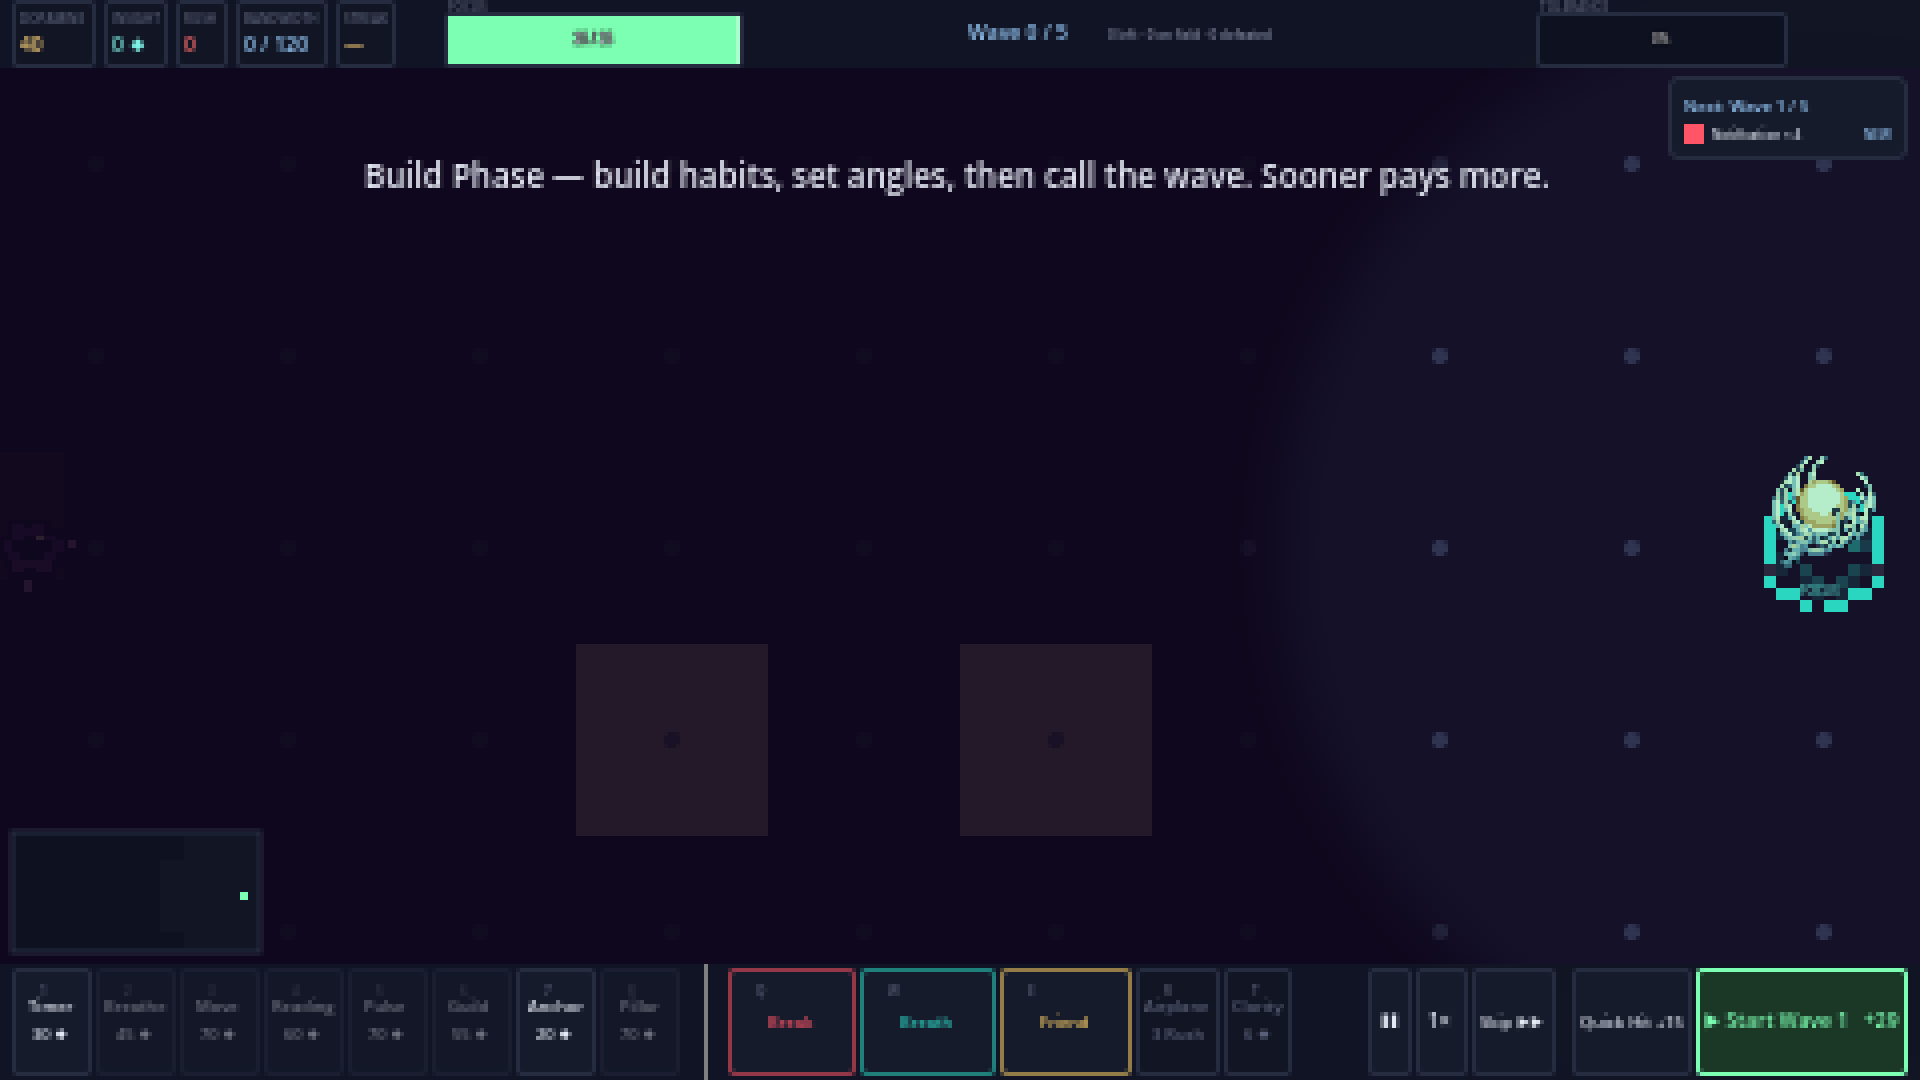
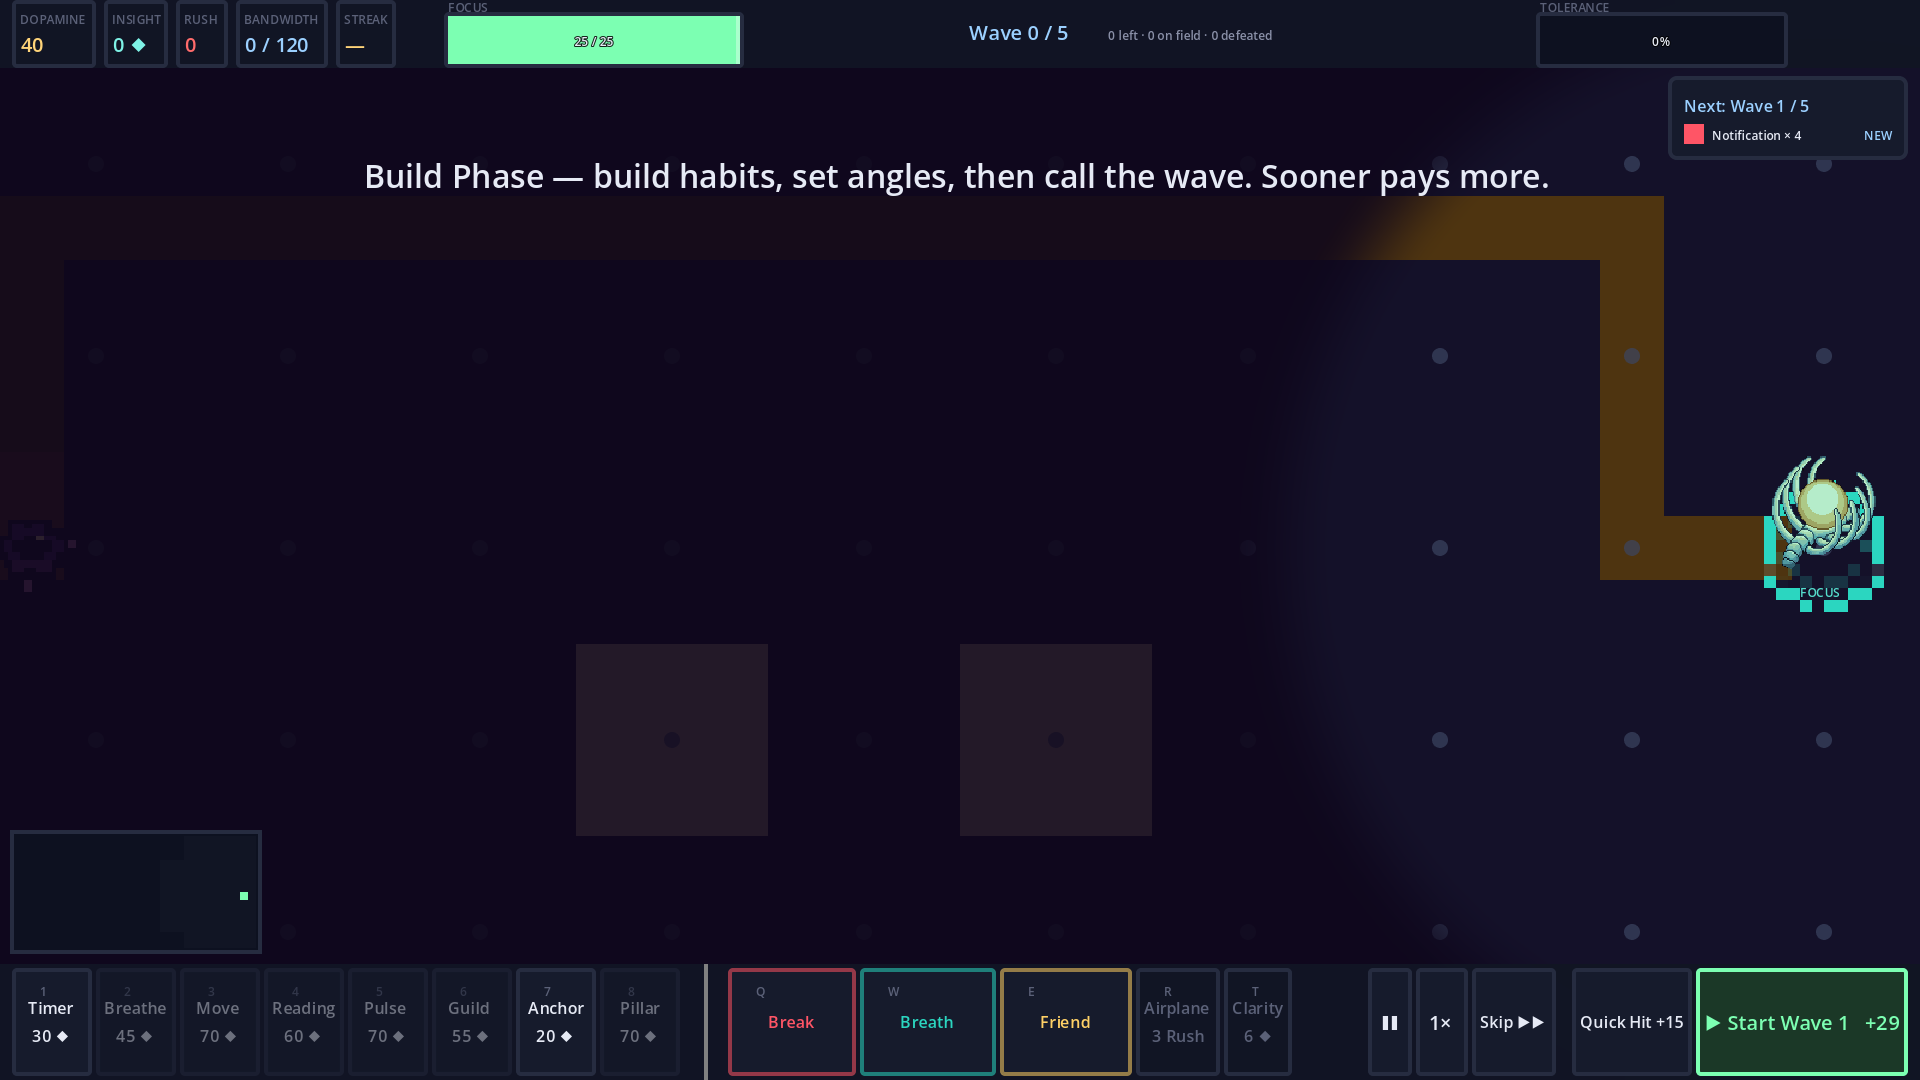
feat(board): draw the lane as a surface -- MODE_SQUARE was drawing no route at all
Reported as "the path is a dotted debug line, not terrain". It is worse than
that: there was no path rendering in the top-down game whatsoever, and the code
already said so in two places.

_build_path_layer() IS the lane renderer -- a TileMapLayer of 18 Wang-masked
lane tiles in assets/terrain/iso/lane/ -- and its first executable line is
`if GridProjection.active_mode == MODE_SQUARE: return`, commented "there is no
square equivalent to paint yet". SquareTerrain._draw(), which replaces it, was
two draw_rect calls: one ground rect, one tan rect per high-ground cell. It never
read lane_cells or path_cells. tools/stylized_renderer.gd says it outright:
"Cesta se nekreslí jinou barvou, protože to nedělá ani hra."

So level.path_cells was invisible gameplay data -- it fed A* weights and nothing
the player could see, in a genre where the route is the most important thing on
the board.

SquareTerrain now paints lane_cells as a filled surface, under the high ground so
a wall always wins a disputed cell. lane_cells rather than level.path_cells,
because a trod opening grows the route mid-run; _open_trod() repaints the terrain
for the same reason (MODE_ISO gets that free from _build_path_layer(), which
square mode returns from).

The colour is not invented: SQUARE_LANE_COLOR is Color8(78, 52, 16), the exact
LANE value tools/flat_terrain.py:55 paints the shipped terrain art with, whose
luminance sits in the band STYLE_BIBLE.md section 4 requires and
[…]

diff --git a/PROGRESS.md b/PROGRESS.md
@@ -5382,3 +5382,77 @@ obrázku" jsou dvě různá čísla, kdykoli se obrázek netvaruje podle plátna
 - `_shot_topdown_mockup` a `_shot_squashed_tiles` spuštěny a zkontrolovány na výstupní
   rozměry (`120x56`, resp. `120x49` pro squashed variantu — jiná výška, protože ten
   render je schválně sražený).
+
+## 2026-09-05 — Vrstvy 1b a 2a: věž se vznášela nad podložkou, cesta se nekreslila vůbec
+
+Uživatel rozdělil vizuální vady desky na vrstvy a zadal pořadí. Tohle je 1b (měřítko
+spritů vůči blokům) a 2a (cesta jako plocha, ne tečky). 1a a 2b níž jako zjištění.
+
+### 1b — a NENÍ to měřítko
+
+Změřeno frame diffem, ne přepočtem vzorce:
+
+| | naměřeno |
+|---|---|
+| podložka (`BUILD_BLOCK=3`) | 3,00 dlaždice |
+| hlava — box spritu | 4,00 |
+| hlava — **viditelný ink** | **2,50 × 3,25** |
+| přesah inku přes podložku na šířku | **−0,25** |
+| věž celkem PŘED | 4,13 × **5,06** |
+| věž celkem PO | 4,13 × **4,23** |
+
+Viditelná hlava je o čtvrt dlaždice **užší** než podložka. Zavést `HABIT_ART_SCALE` by
+tedy zmenšovalo něco, co se vejde, a ubralo čitelnost spritu, který je ze 37 % průhledný.
+Snímek ukázal skutečnou vadu: hlava se **vznášela úplně nad podložkou**, na podložce byl
+jen zelený health bar.
+
+Příčina: `base_habit.gd:72` nastavovalo `_iso_lift = Game.WALL_HEIGHT` (32 px = **2
+dlaždice**) každému habitu na high groundu, **bezpodmínečně**. To zvednutí existuje, aby
+habit stál na plošině, kterou kreslí ISO větev (`IsoTopSegment`, `_spawn_wall_segment`,
+obojí posunuté o `WALL_HEIGHT`). `MODE_SQUARE` se tam nikdy nedostane:
+`_build_platforms()` zavolá `_build_square_terrain()` a vrátí se, a `SquareTerrain._draw()`
+jsou dva `draw_rect` bez jediné výšky. Věž se tedy zvedala na plošinu, kterou nic
+nenakreslilo.
+
+Opraveny **obě** místa se stejnou vadou — `_iso_lift` i elevace náhledu umístění
+v `_draw_placement_preview` (ta posouvala obrys bloku 2 dlaždice nad blok, který
+zobrazovala). Obě se teď ptají `GridProjection.active_mode != MODE_SQUARE`.
+
+Zbylý přesah (hlava je 3,25 dlaždice vysoká na 3dlaždicové podložce) je **art**, ne kód —
+čelní figurky na top-down desce, vedené v BLOCKED.md od `14384c0`.
+
+### 2a — cesta se na top-down desce nekreslila VŮBEC
+
+Ne „kreslí se špatně", ale „nekreslí se". Kód to sám přiznává: `_build_path_layer()`, což
+JE renderer cesty (Wang dlaždice `lane_%02d.png`, 18 souborů na disku), má jako první
+příkaz `if active_mode == MODE_SQUARE: return` s komentářem *„there is no square
+equivalent to paint yet"*. A `SquareTerrain._draw()` kreslil jen pozadí a béžové
+high-ground buňky. Nejdůležitější informace v maze TD tedy neměla žádné vykreslení.
+
+To, co uživatel četl jako tečkovanou trasu, je `_draw_static_field()`: `draw_circle(cpos,
+2.0, Color("3b4561", 0.7))` pro každou buňku, kde `x % 3 == 1 and y % 3 == 1` — mřížka
+středů stavitelných bloků, kreslená **přes celou desku bez ohledu na high ground**. Na
+levelu 1 tedy značí 50 pozic, z nichž se dá stavět na 3.
+
+Přidán `SQUARE_LANE_COLOR := Color8(78, 52, 16)` a kreslení `lane_cells` jako plochy
+v `SquareTerrain._draw()`, pod high groundem. Barva **není vymyšlená**: je to
+`LANE = (78, 52, 16)` z `tools/flat_terrain.py:55`, tedy hodnota, kterou už hlídá
+`tools/check_terrain_contrast.py` proti pásmu z `STYLE_BIBLE.md` §4 — stejným způsobem,
+jakým `SQUARE_GROUND_COLOR` už přebírá `GROUND` z téhož souboru. `_open_trod()` teď
+překresluje i terén, jinak by nově otevřený trod zůstal nenamalovaný.
+
+### Proč to na levelu 1 pořád nic nekreslí — a je to zjištění, ne vada
+
+`data/levels/level_1.tres` **nemá `path_cells` vůbec** (`docs/levels/1.md` řádek 44:
+`path_cells: (none)`, v ASCII mřížce ani jeden znak `~`). Level 1 žádnou cestu
+nedefinuje; nepřátelé si volně hledají trasu kolem 3×3 bloků. Ověřeno na levelu 98, který
+`path_cells` má (38 buněk): jantarový koridor se vykreslí přesně podle dat.
+
+Takže vrstva 2a měla DVĚ příčiny a obě jsou teď pojmenované: chyběl renderer (opraveno)
+a level 1 nemá co vykreslit (obsah, patří do MapEditoru — nesahám na levely).
+
+### Ověření
+
+- `./verify.sh`: viz hash commitu. `terrain contrast` prochází — nová barva je ta, kterou
+  ten test měří.
+- Snímky levelu 98 s vykreslenou cestou předány uživateli.
